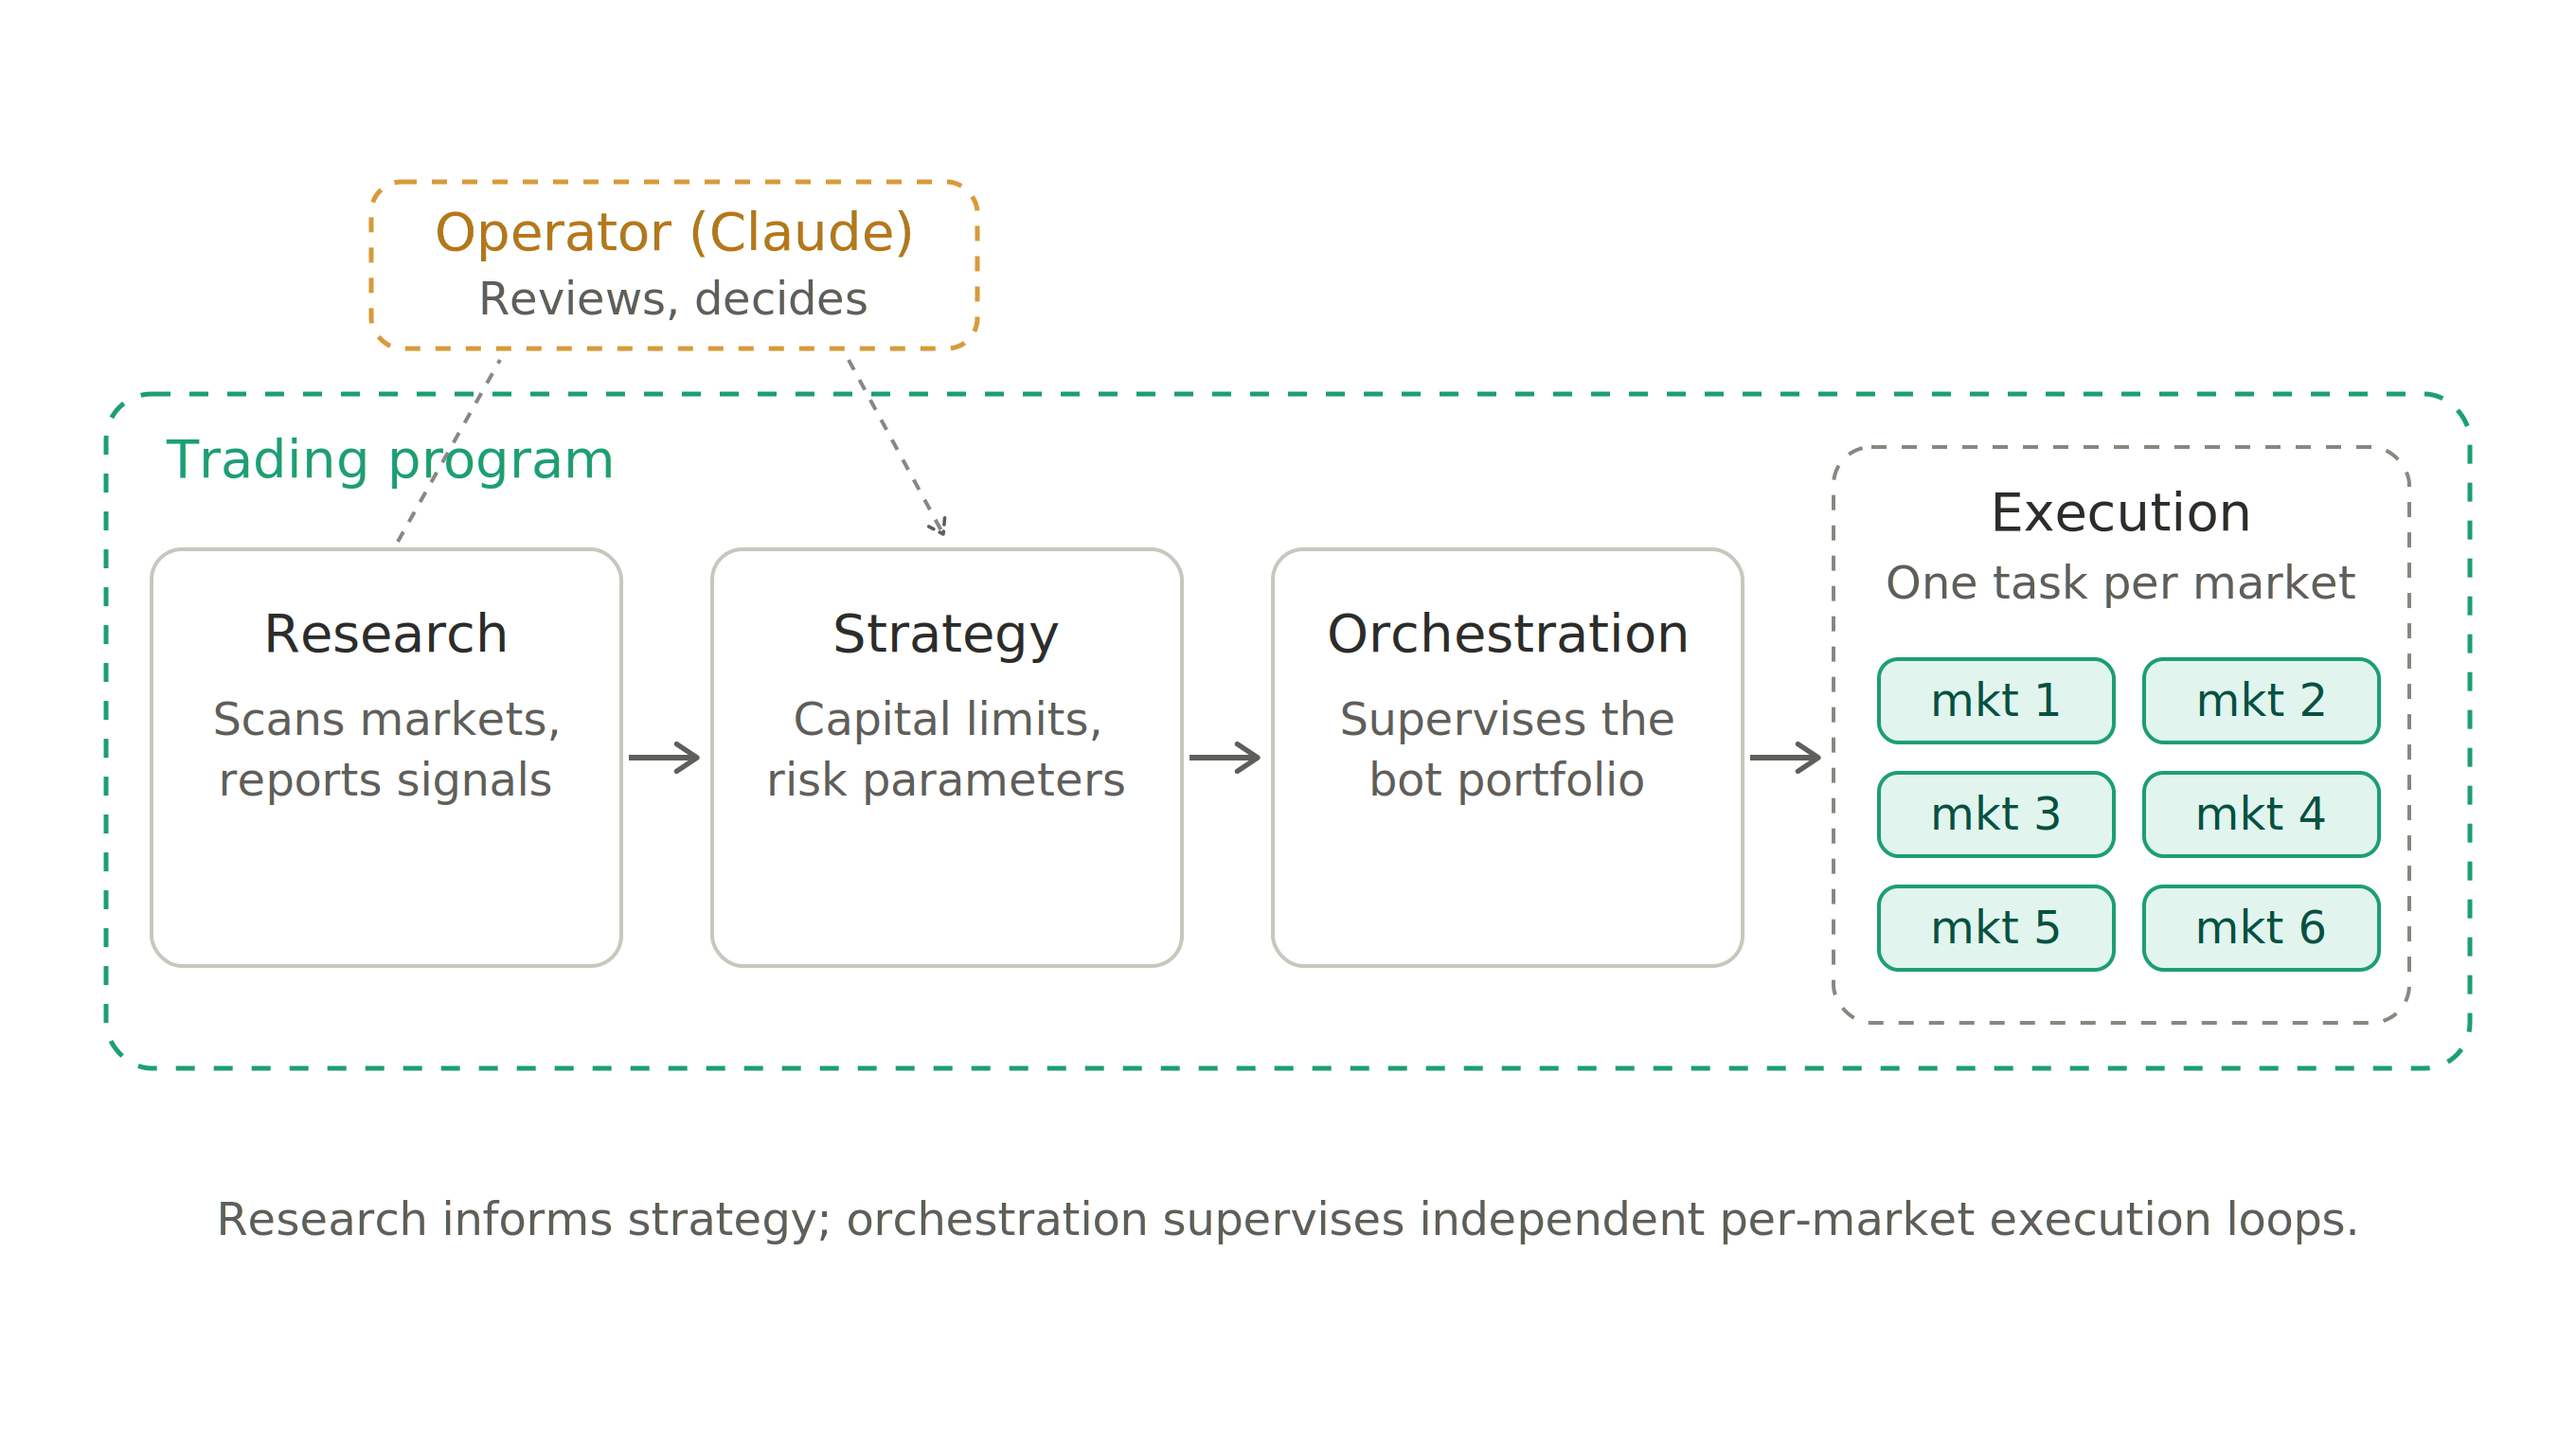
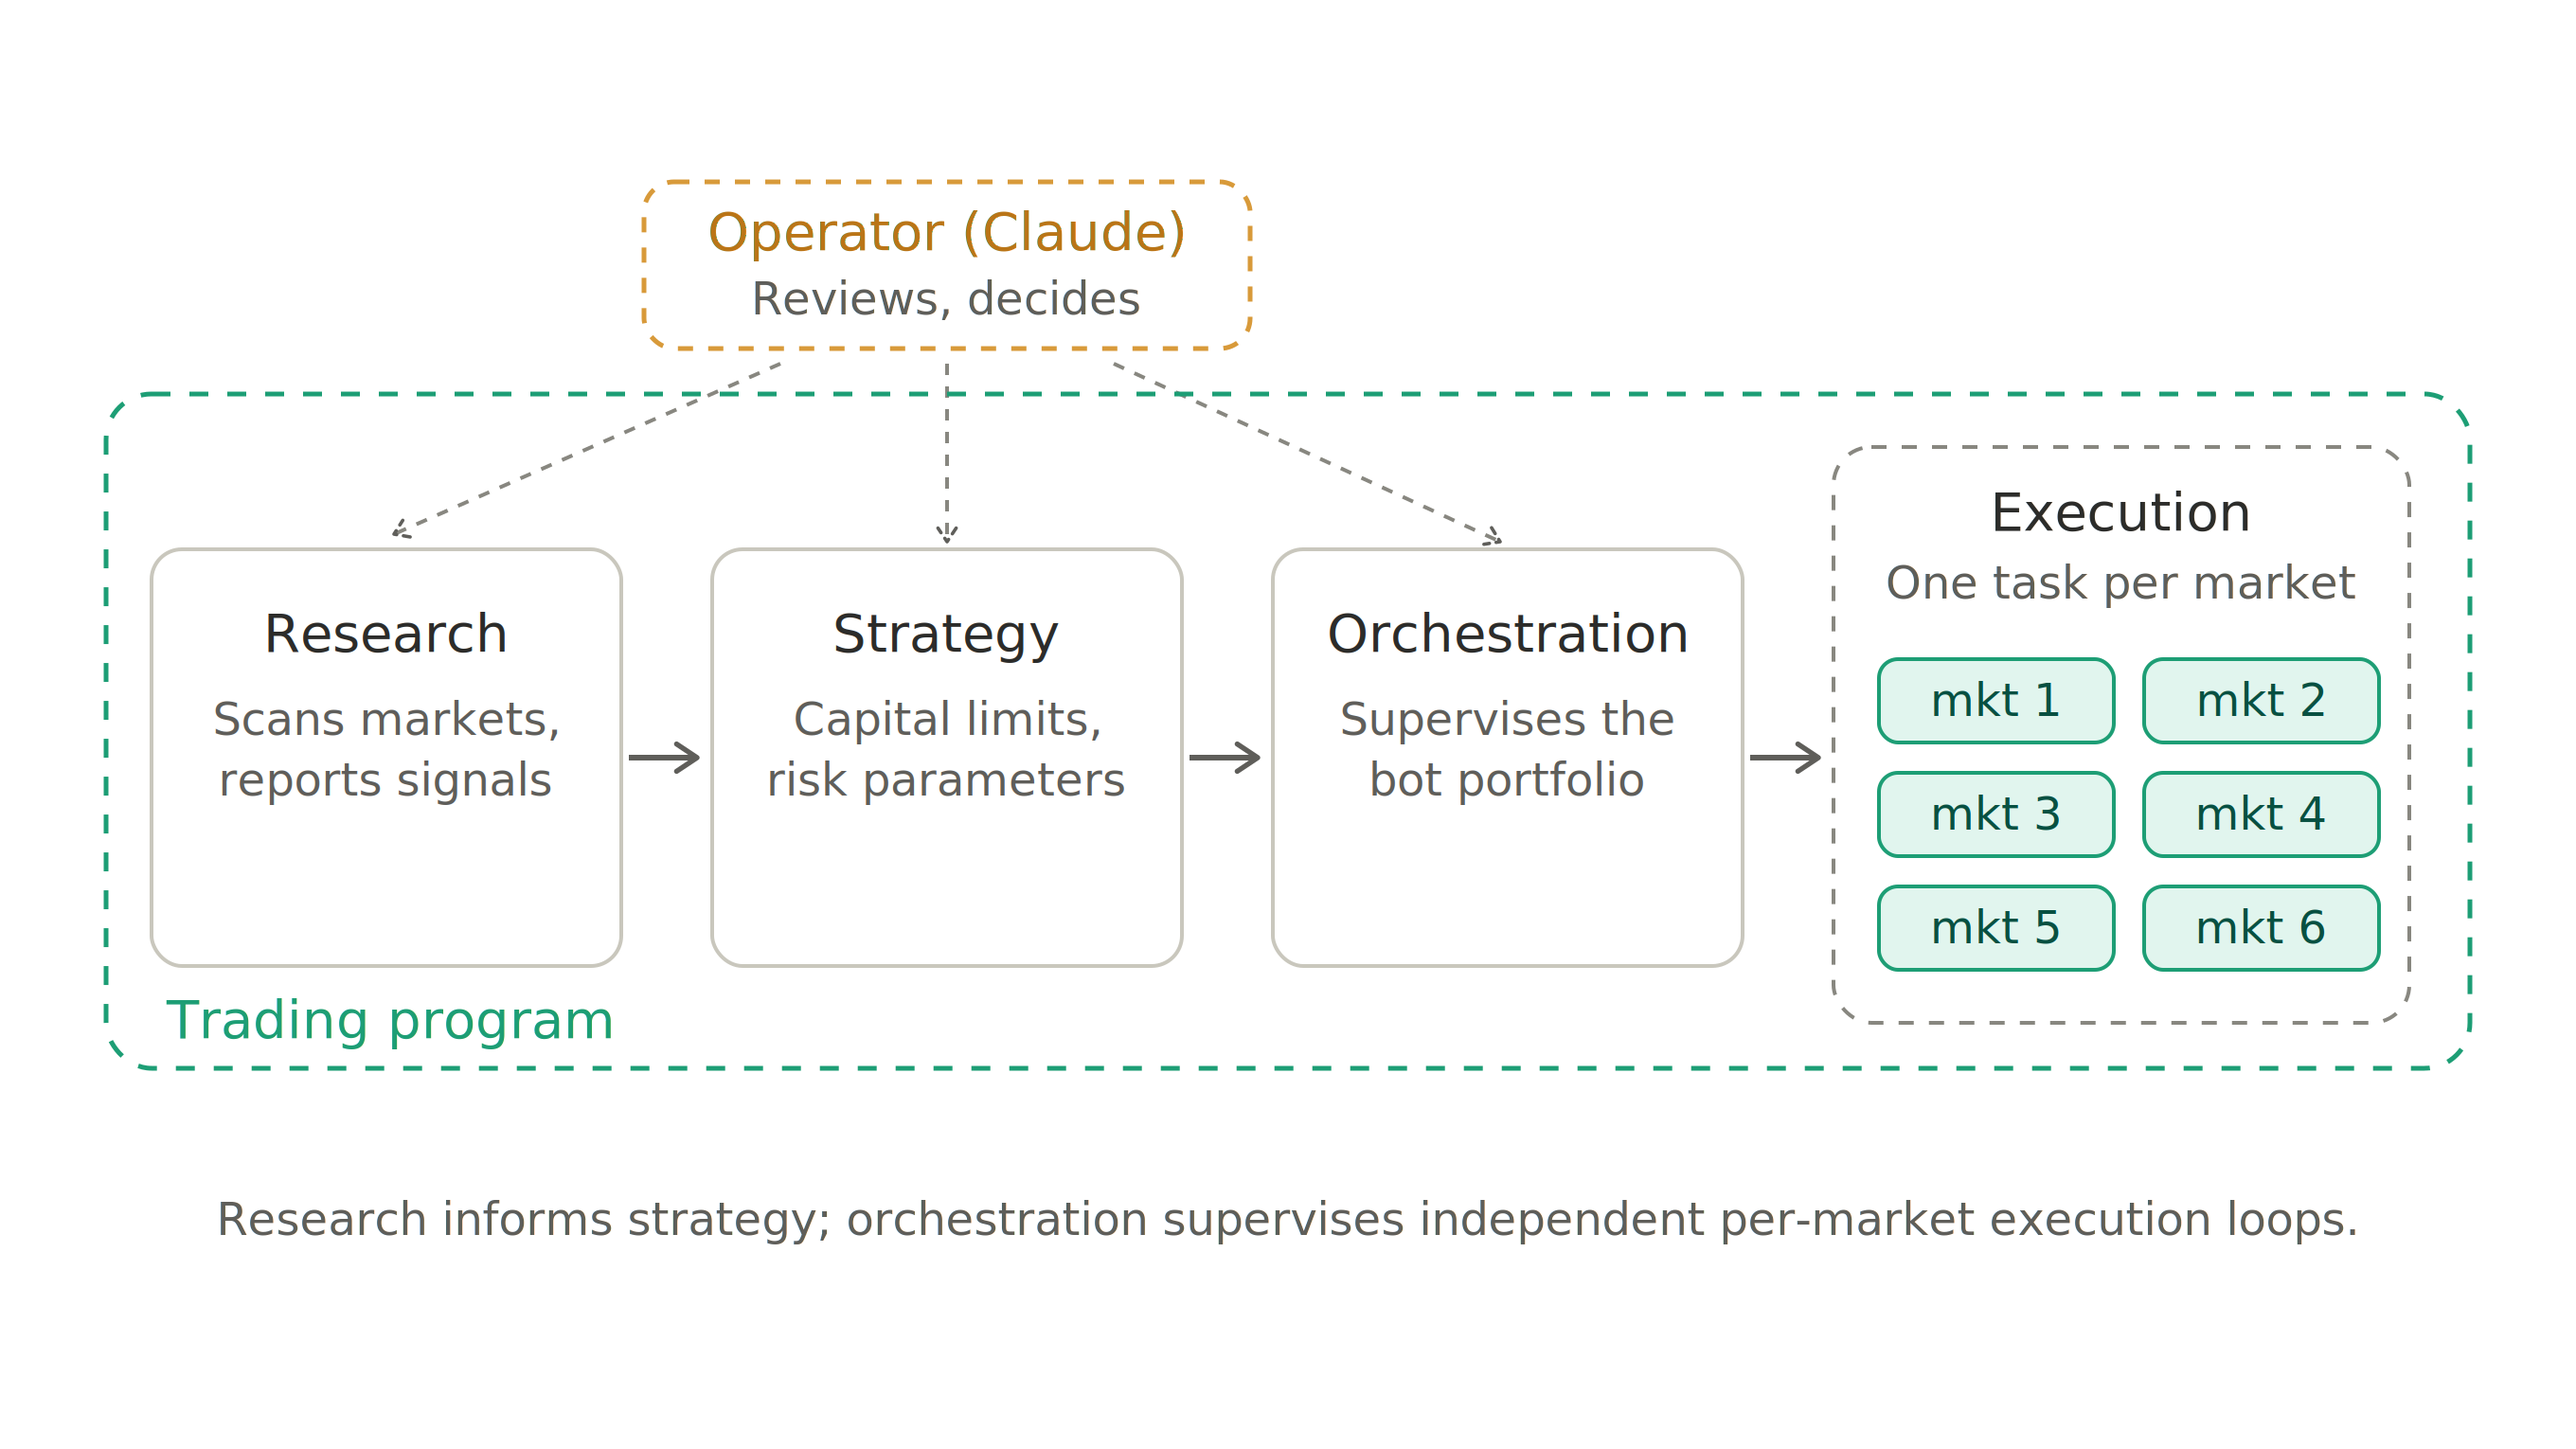
refine tldr, diagrams

Changed region(s): [[0.1562, 0.1229, 0.4688, 0.2458], [0.0625, 0.6758, 0.2188, 0.7373], [0.0625, 0.3072, 0.25, 0.3379]]

diff --git a/content/work/kmm.md b/content/work/kmm.md
@@ -1,6 +1,6 @@
 ---
 title: Market Maker
-tagline: Free Lunch?
+tagline: Money for Nothing
 sortOrder: 3
 draft: true
 titleColor: light
@@ -22,7 +22,7 @@ I built an AI-powered trading system that earns real money on prediction markets
 ::
 
 ::side-note
-**TLDR**: Claude wrote this trading system and Claude runs it. I planned the architecture, direct operations from a Telegram thread, and approve every market; the bot quotes prediction markets on Kalshi to earn the platform's liquidity incentives. Seeded with $650, it has returned +$1,081.93 over 16 weeks (+166%, fees included). A solo project in a domain I had no background in, live within two days of the first line of code.
+**TLDR**: An AI-operated trading system that earns real money on Kalshi's prediction markets. I planned the architecture, direct operations from a Telegram thread, and approve every market; Claude wrote the code and runs it day to day, quoting markets to earn the platform's liquidity incentives. Seeded with $650, it has returned +$1,081.93 over 16 weeks (+166%, fees included). A solo project in a domain I had no background in, live within two days of the first line of code.
 ::
 
 ::title-block{subtitle="Kalshi pays traders to provide liquidity."}
